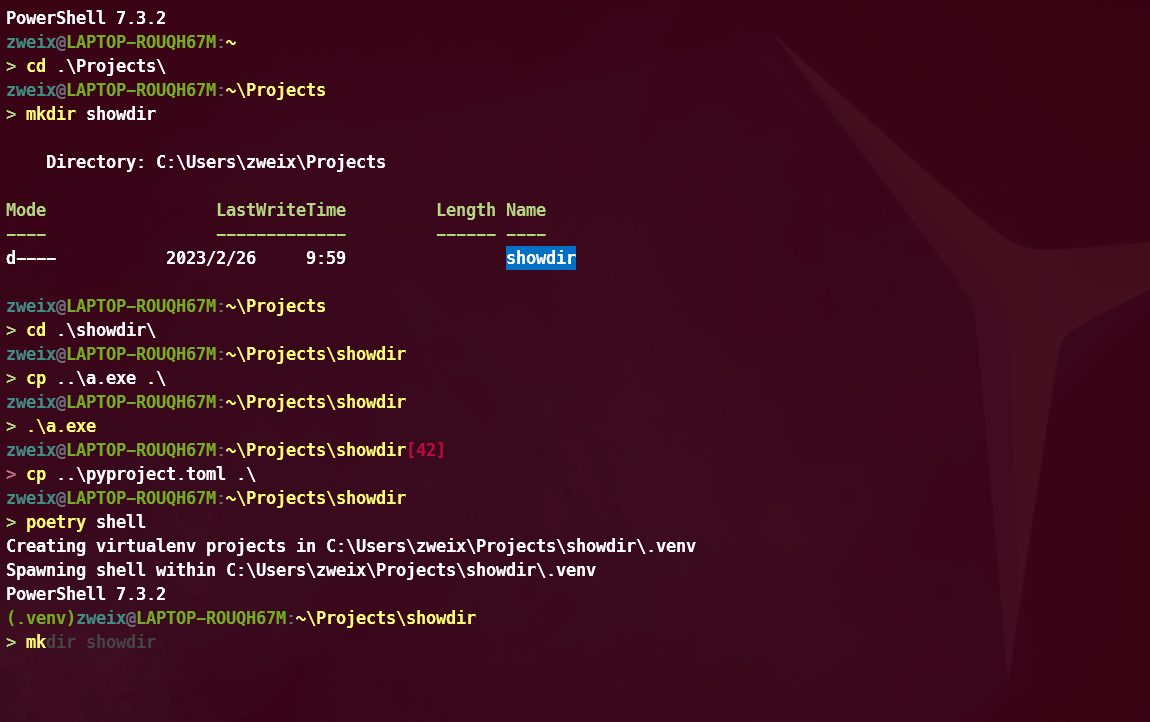
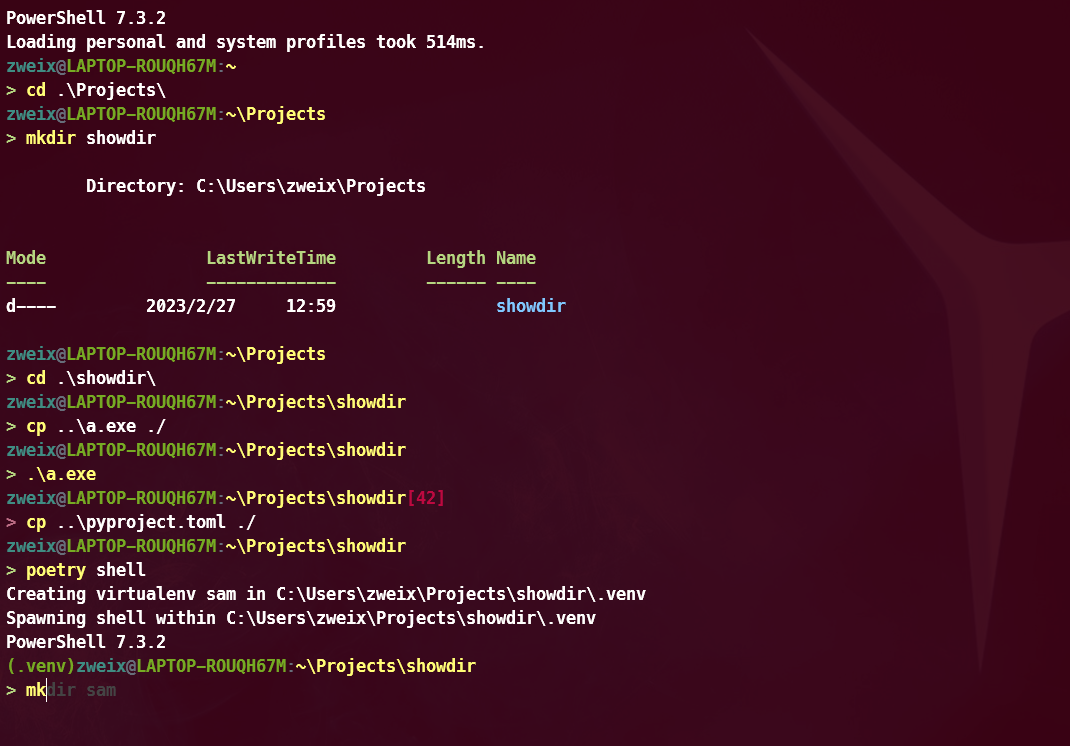
add many set of powshell(output of ls, tab move like zsh) and else

diff --git a/README.md b/README.md
@@ -1,10 +1,13 @@
-+ 该配置配套教程：[zweix的win机器开发机配置指南](https://github.com/zweix123/CS-notes/blob/master/Missing-Semester/WindowsConfigGuide.md)
++ 该配置配套教程：[zweix的win机器开发机配置指南](https://github.com/zweix123/CS-notes/blob/master/Missing-Semester/WindowsConfigGuide.md#5%E5%91%BD%E4%BB%A4%E8%A1%8C)
 + 提供的配置：
     1. oh-my-posh的主题：主打简约效率风魔改自官方主题`ys`
     2. PowerShell7的配置：主要是用来引入主题
+        >2023.02.27, 添加引入模块和设置热键, 具体的让ls的输出更好看, 功能更像oh-my-zsh
     3. Windows Terminal的配置：
         + 打开位置、打开大小、打开模式、模式切换快捷键可按个人喜好修改
-        + 字体种类、字体大小、One Dark风配色方案
+        + 字体种类、字体大小、Ubuntu风配色方案（也有更好看的One Dark风，但是细节还在调教，没有使用）
+        
+        >目前是F2显示窗口（不然不能移动）
 
     4. 改键脚本：将`Caps`键改为方向键右键来加速使用oh-my-posh的补全
 
@@ -14,9 +17,9 @@
     ![](https://cdn.jsdelivr.net/gh/zweix123/posh-config@master/static/imgs/cmd.png)
 
 + 魔改后的终端：
-    ![One Dark风](https://cdn.jsdelivr.net/gh/zweix123/posh-config@master/static/imgs/mine.png)  
-    或者使用Ubuntu风格  
-    ![](https://cdn.jsdelivr.net/gh/zweix123/posh-config@master/static/imgs/mine_ubuntu.png)  
+    ![One Dark风](https://cdn.jsdelivr.net/gh/zweix123/posh-config@master/static/imgs/mine_ubuntu.png)  
+    或者使用One Dark风格  
+    ![](https://cdn.jsdelivr.net/gh/zweix123/posh-config@master/static/imgs/mine_onedark.png)  
 
 ## 使用
 
